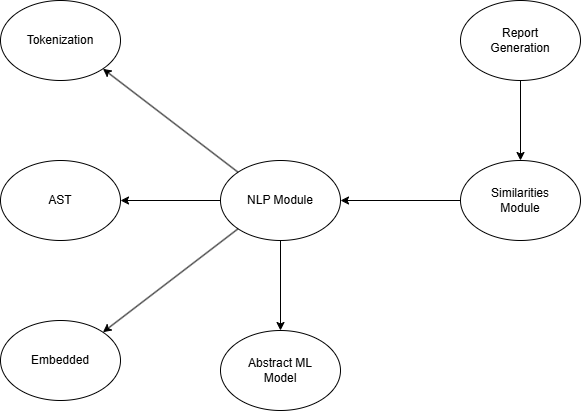
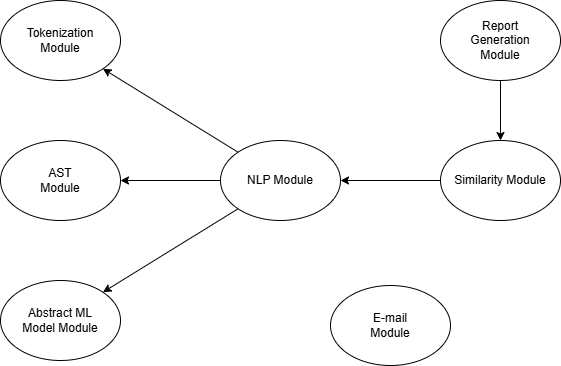
NUKE EMBEDDING LOL

diff --git a/docs/Design/SoftDetailedDes/MIS.tex b/docs/Design/SoftDetailedDes/MIS.tex
@@ -155,7 +155,6 @@ The following table is taken directly from the Module Guide document for this pr
     & Abstract ML Model Module \\
     & Tokenization Module \\
     & AST Module \\
-    & Embedded Module \\
    
     \bottomrule
     \end{tabular}
@@ -820,7 +819,6 @@ No local functions are required for this module.
     \item Abstract ML Model Module
     \item Tokenization Module
     \item AST Module
-    \item Embedded Module
 \end{itemize}
 
 \subsection{Syntax}
@@ -873,10 +871,8 @@ No local functions are required for this module.
 \end{itemize}
 
 \subsubsection{Local Functions}
- None
+No local functions are required for this module.
 
-
-\end{itemize}
 
 %END OF NLP Module
 
@@ -1105,7 +1101,7 @@ No local functions are required for this module.
 \hline
 \textbf{Name} & \textbf{In} & \textbf{Out} & \textbf{Exceptions} \\
 \hline
-\texttt{score} & data: DataStruct & scores: Map[2-tuple[str]: list[Real]] & -\\ %mathematical notation here, specify n choose 2 scores
+\texttt{score} & data: DataStruct & scores: Map[2-tuple[str]: list[Real]] & - \\ %mathematical notation here, specify n choose 2 scores
 \hline
 \end{tabular}
 \end{center}
@@ -1134,14 +1130,13 @@ No local functions are required for this module.
 \noindent \texttt{score}(data: DataStruct):
 \begin{itemize}
     \item \textbf{transition: None} 
-    \item \textbf{output: Map[2-tuple[str]: list[Real]]} # denote this more mathematically?
+    \item \textbf{output: Map[2-tuple[str]: list[Real]]} \# denote this more mathematically?
     \item \textbf{exception: None}
 \end{itemize}
 
 \subsubsection{Local Functions}
- None
+No local functions are required for this module.
 
-\end{itemize}
 
 %END OF SIMILARITY SCORING MODULE
 
@@ -1212,8 +1207,6 @@ No local functions are required for this module.
     \item \textbf{exception: None}
 \end{itemize}
 
-
-\end{itemize}
 
 %END OF REPORT GENERATION MODULE
 

diff --git a/docs/Design/SoftArchitecture/MG.tex b/docs/Design/SoftArchitecture/MG.tex
@@ -228,7 +228,6 @@ actually be implemented. \\
     \item [\refstepcounter{smnum} \smthemnum \label{smMLModel}:] Abstract ML Model Module
     \item [\refstepcounter{smnum} \smthemnum \label{smTokenization}:] Tokenization Module
     \item [\refstepcounter{smnum} \smthemnum \label{smAST}:] AST Module
-    \item [\refstepcounter{smnum} \smthemnum \label{smEmbedded}:] Embedded Module
   \end{description}
   \item [\refstepcounter{mnum} \mthemnum \label{mScoring}:] Similarity Scoring Module
   \item [\refstepcounter{mnum} \mthemnum \label{mReport}:] Report Generation Module
@@ -259,7 +258,6 @@ actually be implemented. \\
   & Abstract ML Model Module \\
   & Tokenization Module \\
   & AST Module \\
-  & Embedded Module \\
  
   \bottomrule
   \end{tabular}
@@ -468,14 +466,6 @@ plagiarism detection according to their needs.
 \item[Type of Module:] Library Component
 \end{description}
 
-\subsubsection{Embedded Module (\smref{mNLP}{smEmbedded})}
-
-\begin{description}
-\item[Secrets:] The embedding methods used to convert tokens or AST nodes into fixed-size vector representations.
-\item[Services:] Converts a source code representation into vector embeddings suitable for similarity scoring.
-\item[Implemented By:] \progname{}
-\item[Type of Module:] Library Component
-\end{description}
 
 \subsubsection{Report Generation Module (\mref{mReport})}
 
